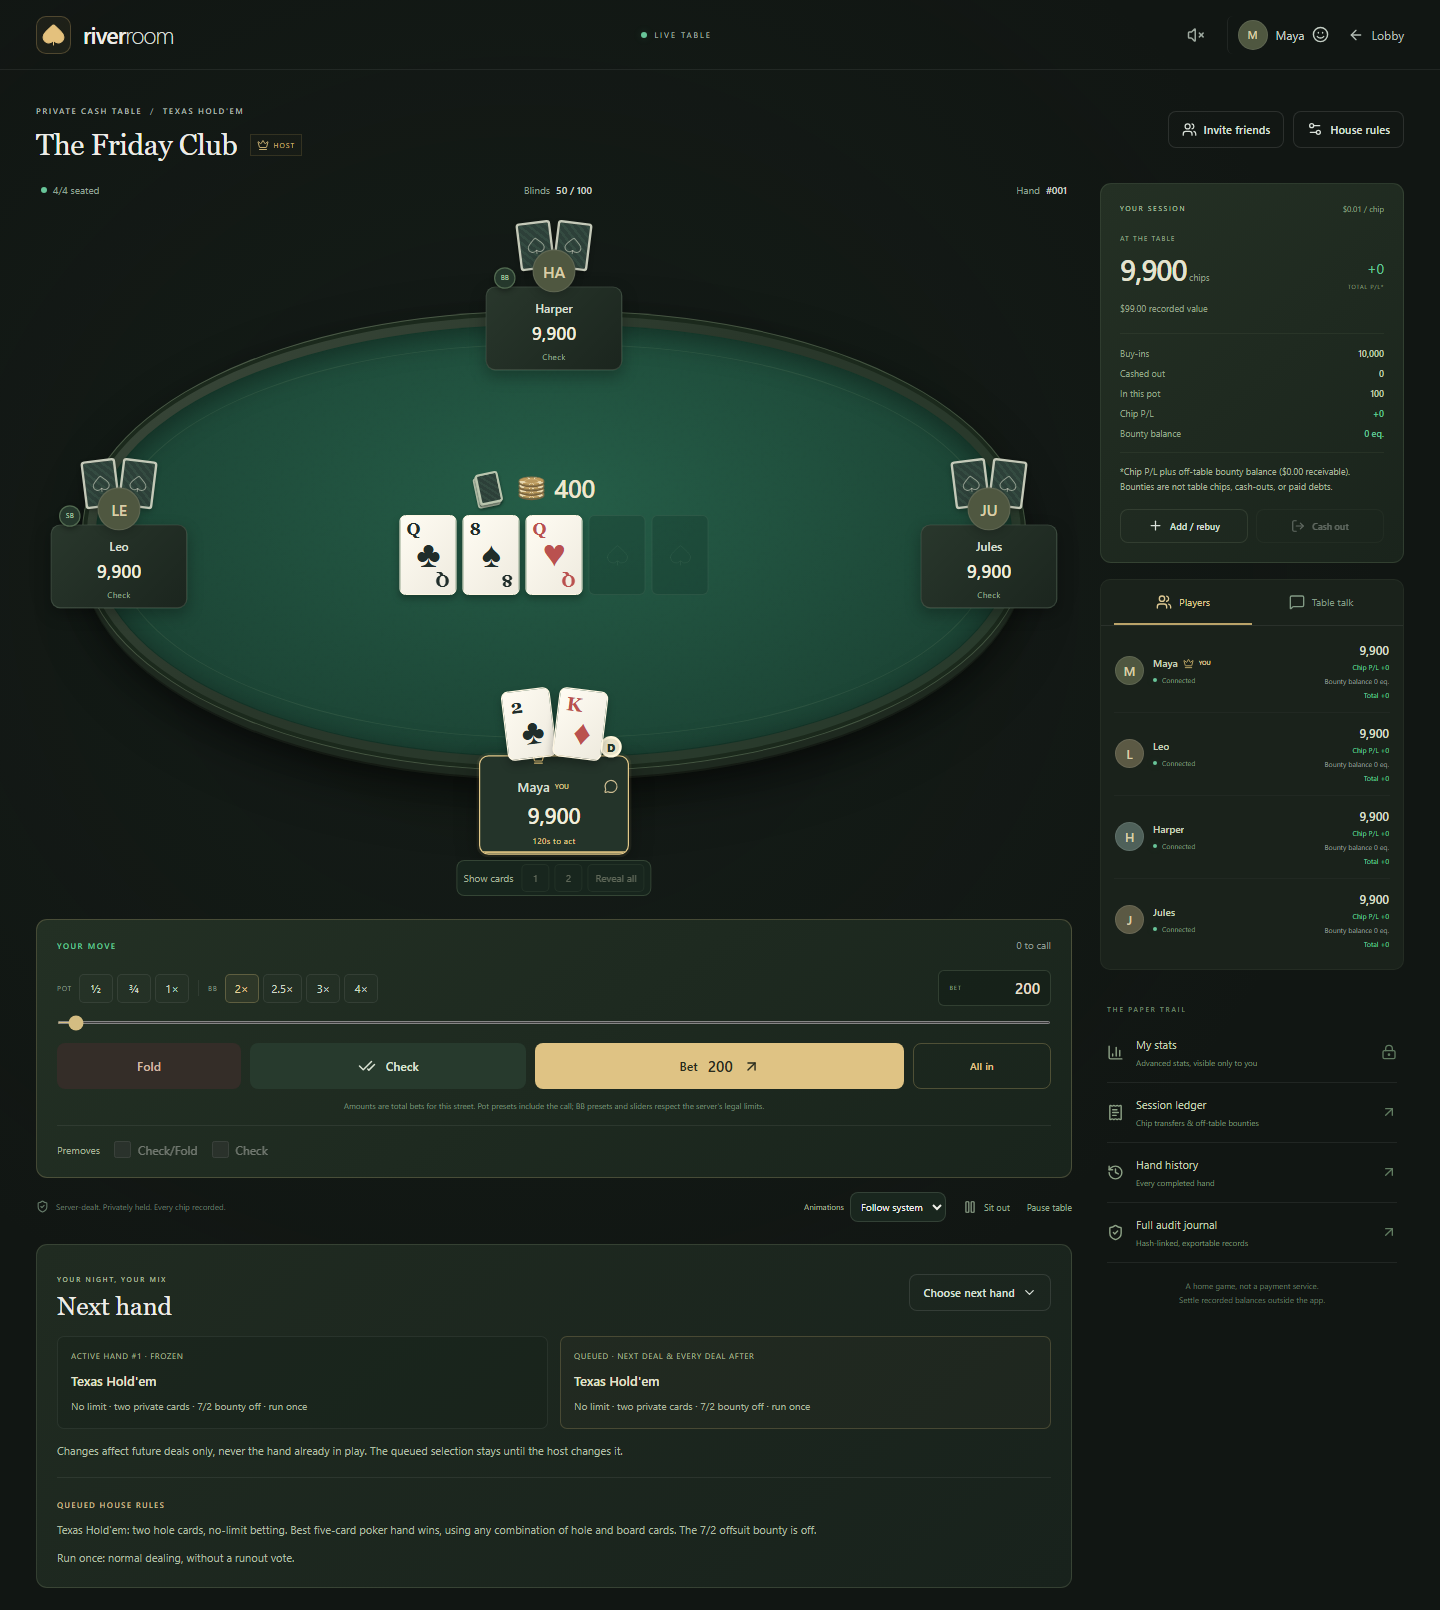
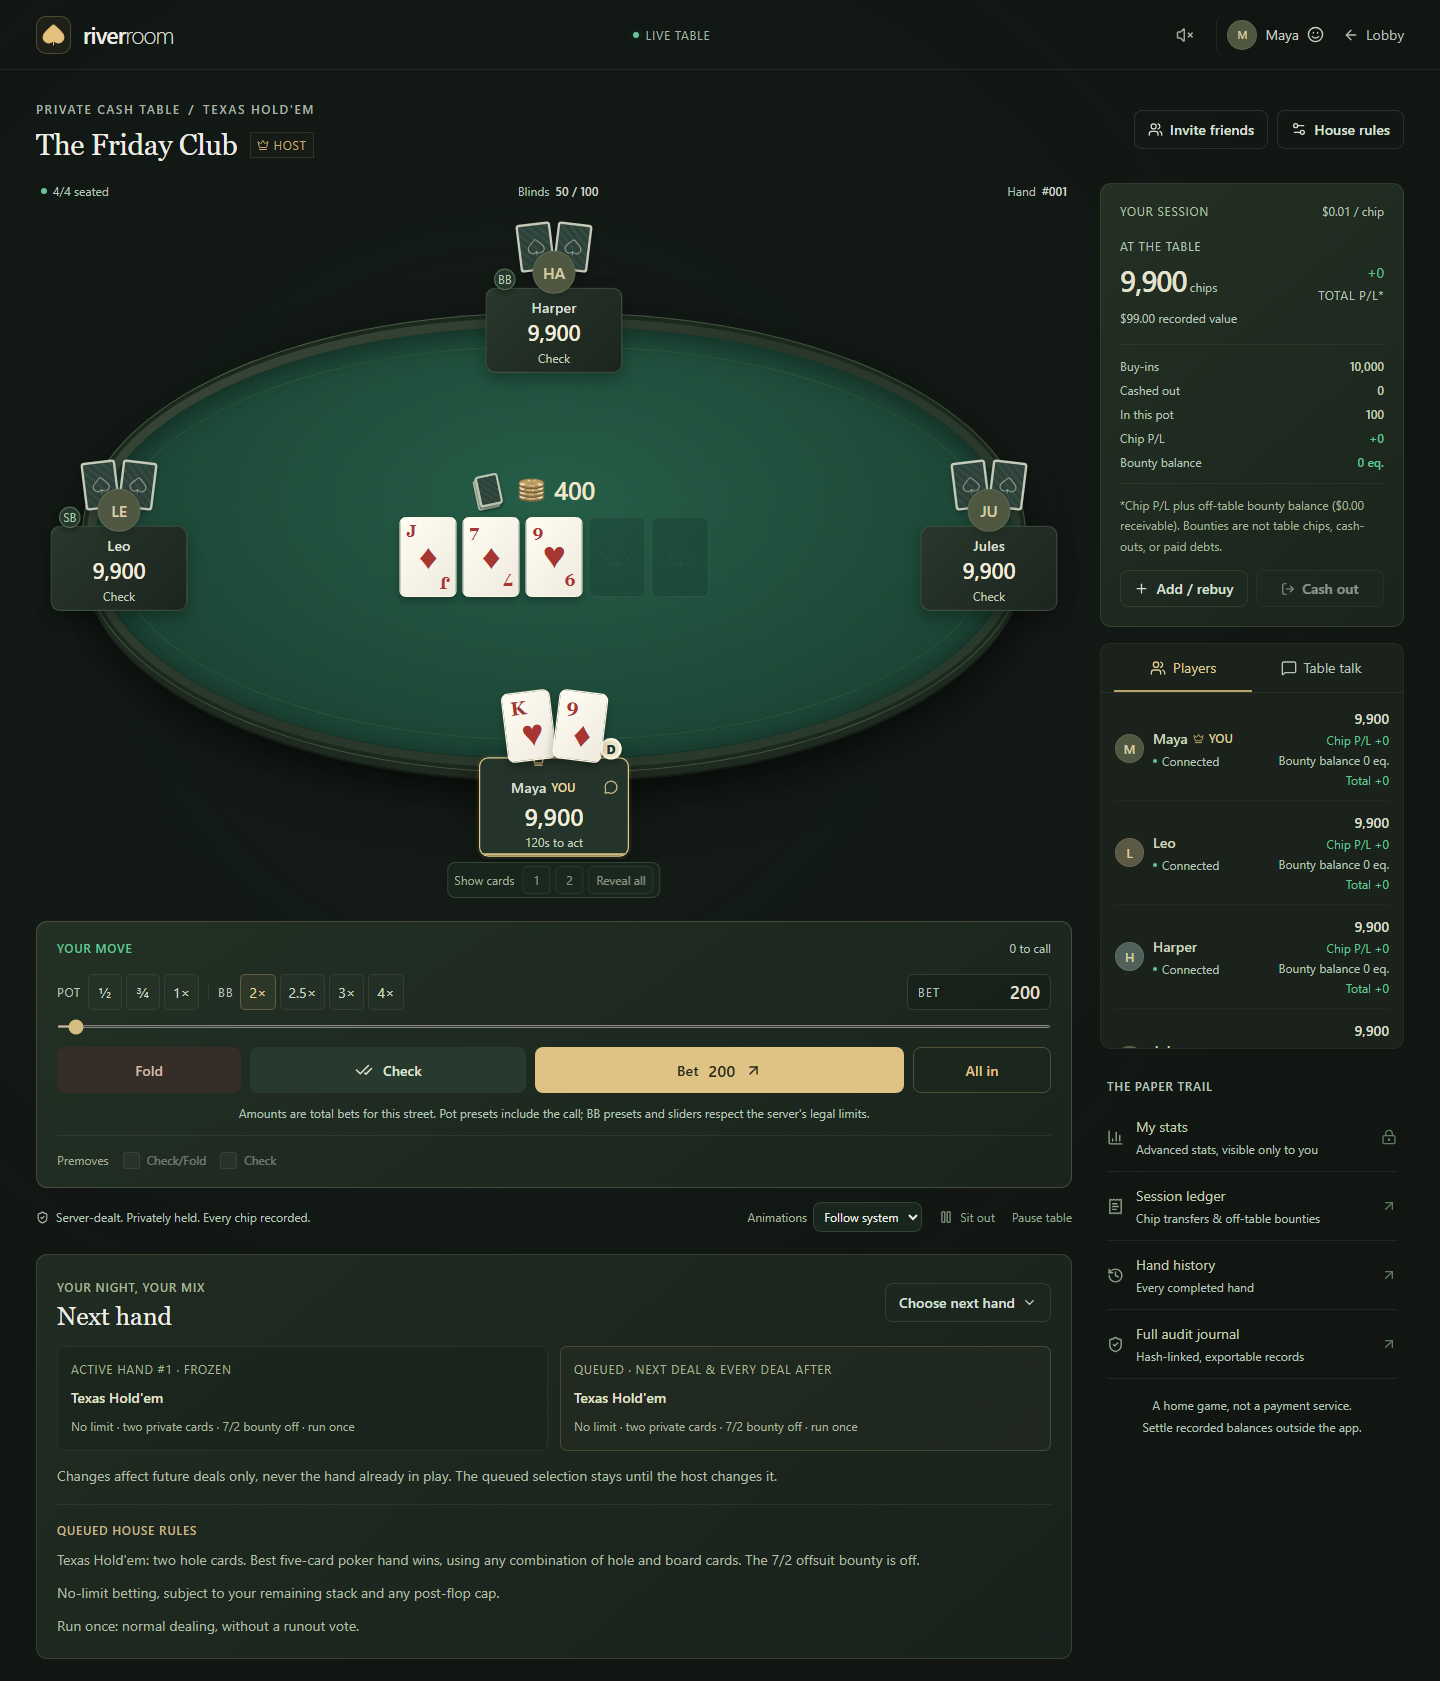
fix: improve interface legibility across screen sizes
Address #13 with shared readable typography roles, stronger secondary-text contrast, readable mobile inputs and betting controls, and responsive spacing that preserves table and premove stability.

diff --git a/src/client/readability.css b/src/client/readability.css
@@ -1,0 +1,145 @@
+/* Shared type roles override the compact component styles, including their mobile reductions. */
+:root {
+  --text-caption: .75rem;
+  --text-body: .875rem;
+  --text-control: 1rem;
+  --muted: #b5c3b9;
+}
+body { font-size: var(--text-control); }
+input::placeholder { color: #a6b7ab; }
+button:disabled, .profile-emoji-button[aria-disabled="true"] { opacity: .6; }
+
+.eyebrow, .brand small, .private-pill, .hero-copy .eyebrow,
+.hero-note, .feature-grid p, .section-heading > .muted, .session-title,
+.status-tag, .session-card p, .session-bottom small, .session-breakdown > span,
+.session-breakdown small, .lobby-footer, .modal-heading p, .stats-sample > span,
+.stat-card h3 small, .stat-sample, .stat-card p, .stats-notes p, .emoji-count,
+.emoji-group h3, .emoji-footer > span, .field > span, .field small, .form-note,
+.game-nav-center, .table-title-row .eyebrow, .host-label, .table-meta,
+.paused-overlay, .turn-heading, .action-heading > .muted, .preset-label,
+.raise-input span, .action-buttons small, .sizing-note, .premove-label,
+.reveal-label, .reveal-controls button, .table-footer, .table-footer .text-button,
+.bankroll-title, .bankroll-title > span:last-child, .bankroll-main > div > small,
+.bankroll-main > div > strong > span, .bankroll-main > div > .muted, .net-badge small,
+.bankroll-details, .player-details strong small, .player-details > span,
+.player-money small, .chat-event time, .session-tools > .eyebrow,
+.session-tools > button small, .sidebar-note, .count-badge, .approval-row small,
+.approvals .form-note, .funding-total > span, .funding-total small,
+.ledger-summary > div > span, .ledger-summary small, .ledger-summary strong small,
+.data-table th, .data-table td small, .record-footer > span,
+.hand-history header > span, .history-pot small, .showdown-row small,
+.audit-list time, .audit-list code, .board-label, .table-double-board .board-label, .balance-note,
+.bounty-award small, .next-hand-panel .eyebrow, .hand-rules-summary small,
+.hand-rules-summary span, .mixed-house-rules > strong, .runout-clock,
+.runout-players li small, .runout-players strong, .runout-decision .runout-deck-note,
+.hand-history article > header small, .history-rules, .history-result small,
+.history-balances p, .emote-menu-heading, .emote-menu-note, .emote-menu-error,
+.moving-chip-amount, .moving-chip-amount small, .motion-preference,
+.motion-preference select {
+  font-size: var(--text-caption);
+}
+
+.button, .button-small, .hero-actions .button, .text-button, .profile-chip,
+.emoji-categories button, .checkbox, .empty-state, .error-banner, .info-banner,
+.connection-banner, .toast, .preset-button, .action-buttons .button,
+.between-actions .button, .bankroll-actions .button, .panel-tabs button,
+.player-details strong, .player-money strong, .chat-event, .chat-message p,
+.session-tools > button > span, .approvals h3, .approval-row strong,
+.record-tools .button, .data-table, .hand-history article > header,
+.history-board .muted, .history-result, .showdown-row, .audit-list header,
+.audit-list p, .variant-guidance, .bounty-award strong, .bounty-award p,
+.hand-rules-summary strong, .hand-attributes legend, .next-hand-explainer,
+.mixed-house-rules p, .run-tabs button, .table-double-board .run-tabs button, .runout-decision > p,
+.runout-players li > span, .runout-choices .button, .record-bounty-note,
+.empty-board, .history-balances summary, .history-balances > div,
+.emote-mute-choice, .next-hand-panel header .button, .record-footer .button {
+  font-size: var(--text-body);
+}
+.field input, .field select, .emoji-search input, .chat-form input { font-size: var(--text-control); }
+.field input, .field select { height: auto; min-height: 46px; }
+.action-buttons .button-allin { font-size: var(--text-body) !important; }
+.action-buttons strong { font-size: var(--text-control); }
+.eyebrow, .brand small, .private-pill, .game-nav-center, .host-label,
+.turn-heading, .bankroll-title, .bankroll-main > div > small,
+.net-badge small, .session-tools > .eyebrow, .next-hand-panel .eyebrow,
+.mixed-house-rules > strong { letter-spacing: .06em; }
+
+.hero-note, .feature-grid p, .hero-copy > p, .lobby-footer, .modal-heading p,
+.field small, .form-note, .table-meta, .preset-label, .raise-input span,
+.sizing-note, .table-footer, .bankroll-title > span:last-child,
+.bankroll-main > div > small, .bankroll-main > div > strong > span,
+.bankroll-main > div > .muted, .net-badge small, .bankroll-details,
+.panel-tabs button:not(.tab-active), .player-details > span, .chat-event,
+.chat-event time, .session-tools > .eyebrow, .session-tools > button small,
+.sidebar-note, .funding-total small, .ledger-summary small, .data-table td small,
+.transfer-cell > span, .hand-history header > span, .history-pot small,
+.showdown-row small, .audit-list time, .audit-list code { color: var(--muted); }
+.hero-copy > p { font-size: var(--text-control); }
+.red-suit { color: #a73532; }
+.feature-grid h3 { font-size: var(--text-control); }
+.feature-grid p { font-size: var(--text-body); }
+.session-breakdown > span, .session-breakdown small { color: var(--muted); }
+.bet-sizing, .presets, .table-meta { flex-wrap: wrap; }
+.bet-sizing { gap: 14px; }
+.presets { row-gap: 8px; }
+.preset-button { min-height: 36px; height: auto; }
+.raise-input input { width: 90px; font-size: 1.125rem; }
+.action-heading { flex-wrap: wrap; }
+.action-heading > .muted { max-width: none; }
+.bankroll-title { flex-wrap: wrap; gap: 8px; }
+.bankroll-details > span { gap: 12px; }
+.table-footer > div { flex-wrap: wrap; }
+.motion-preference select { max-width: none; }
+
+.seat-name, .hero-seat .seat-name { font-size: .75rem; line-height: 1.2; }
+.seat-name small, .seat-action, .seat-bet, .seat .seat-bet,
+.position-badge, .dealer-badge, .blind-badge, .empty-seat small {
+  font-size: .625rem;
+  line-height: 1.2;
+}
+.seat-action { height: 12px; color: #c2d3bc; letter-spacing: 0; }
+.seat-name small { color: #f0daa1; }
+.seat-stack { font-size: 1.125rem; line-height: 1.2; }
+.hero-seat .seat-stack { font-size: 1.25rem; }
+.seat-panel { padding-top: 8px; padding-bottom: 5px; }
+.hero-seat .seat-panel { padding-top: 16px; }
+.seat-folded:not(.seat-showing) { opacity: .8; }
+.empty-seat { color: #b9cdb7; }
+.empty-seat small { letter-spacing: 0; }
+.reveal-controls { height: auto; min-height: 36px; flex-wrap: wrap; justify-content: center; }
+.reveal-controls button { height: auto; min-height: 28px; }
+.emote-menu-note, .emote-menu-error { line-height: 1.6; }
+
+@media (max-width: 700px) {
+  .brand small { display: none; }
+}
+@media (min-width: 601px) and (max-width: 1200px) {
+  .table-stage.table-double-board { min-height: 560px; max-height: none; }
+  .table-stage.table-double-board.table-crowded { min-height: 720px; }
+}
+@media (max-width: 600px) {
+  .game-main { padding-top: 8px; }
+  .table-title-row { margin-bottom: 10px; }
+  .table-title-row h1 { margin-top: 6px; }
+  .table-stage, .table-stage.table-crowded { margin-top: 8px; }
+  .table-title-actions .button { font-size: 0; }
+  .table-meta { gap: 8px 12px; justify-content: flex-start; }
+  .seat-name, .hero-seat .seat-name { font-size: .625rem; }
+  .seat-stack { font-size: .9375rem; }
+  .hero-seat .seat-stack { font-size: 1.125rem; }
+  .seat-panel { padding-top: 6px; padding-bottom: 4px; }
+  .hero-seat .seat-panel { padding-top: 14px; }
+  .presets { justify-content: flex-start; gap: 3px; }
+  .preset-button { min-width: 32px; padding-inline: 4px; }
+  .action-buttons { grid-template-columns: repeat(2, minmax(0, 1fr)); gap: 8px; }
+  .action-buttons .button { min-height: 48px; }
+  .action-buttons strong { font-size: 1.125rem; }
+  .action-console { padding-top: 12px; }
+  .action-heading { display: grid; grid-template-columns: minmax(0, 1fr); gap: 4px; }
+  .action-heading .turn-heading { overflow: hidden; text-overflow: ellipsis; white-space: nowrap; }
+  .action-heading > .muted { text-align: left; }
+  .next-hand-panel > header { align-items: flex-start; flex-wrap: wrap; }
+  .hand-history article > header, .record-footer { flex-wrap: wrap; }
+  .record-footer > span { max-width: 100%; }
+  .emote-menu-heading, .emote-menu-note, .emote-menu-error { font-size: var(--text-caption); }
+}

diff --git a/tests/browser/poker.spec.ts b/tests/browser/poker.spec.ts
@@ -765,6 +765,65 @@ test('emoji interactions avoid recurring formatting work and delayed hover feedb
   await expect(trigger).toBeFocused();
 });
 
+test('essential text stays readable and high contrast on desktop and phone', async ({ page }, testInfo) => {
+  const room = await createTable(page, 'Readable poker', 4);
+  for (let index = 0; index < 3; index++) await serverCommand(page, room.id, { type: 'add_bot' });
+  await page.getByRole('button', { name: 'Deal first hand', exact: true }).click();
+  await serverCommand(page, room.id, { type: 'pause', value: true });
+  const contrast = (foreground: string, background: string) => {
+    const rgb = (color: string) => color.match(/[\d.]+/g)!.slice(0, 3).map(Number);
+    const luminance = (color: number[]) => color.map(value => {
+      const channel = value / 255;
+      return channel <= .04045 ? channel / 12.92 : ((channel + .055) / 1.055) ** 2.4;
+    }).reduce((sum, value, index) => sum + value * [0.2126, 0.7152, 0.0722][index]!, 0);
+    const values = [luminance(rgb(foreground)), luminance(rgb(background))].sort((a, b) => a - b);
+    return (values[1]! + .05) / (values[0]! + .05);
+  };
+  const samples: Array<[string, number, string]> = [
+    ['.table-meta', 12, 'rgb(17, 22, 19)'],
+    ['.turn-heading', 12, 'rgb(35, 48, 36)'],
+    ['.preset-label', 12, 'rgb(35, 48, 36)'],
+    ['.preset-button', 14, 'rgb(35, 48, 36)'],
+    ['.sizing-note', 12, 'rgb(35, 48, 36)'],
+    ['.bankroll-details', 12, 'rgb(36, 48, 36)'],
+    ['.player-details > span', 12, 'rgb(26, 34, 27)'],
+    ['.session-tools > button small', 12, 'rgb(17, 22, 19)'],
+    ['.hand-rules-summary span', 12, 'rgb(32, 43, 33)'],
+    ['.mixed-house-rules p', 14, 'rgb(32, 43, 33)'],
+  ];
+  for (const width of [1440, 390, 320]) {
+    await page.setViewportSize({ width, height: 1000 });
+    for (const [selector, minimum, background] of samples) {
+      const metrics = await page.locator(selector).evaluateAll(elements => elements.map(element => {
+        const style = getComputedStyle(element);
+        return { font: parseFloat(style.fontSize), color: style.color, text: element.textContent };
+      }));
+      expect(metrics.length, selector).toBeGreaterThan(0);
+      for (const metric of metrics) {
+        expect(metric.font, `${selector} at ${width}px`).toBeGreaterThanOrEqual(minimum);
+        expect(contrast(metric.color, background), `${selector} contrast at ${width}px`).toBeGreaterThanOrEqual(4.5);
+      }
+    }
+    const seatText = await page.locator('.seat-name, .seat-action, .position-badge, .seat-bet').evaluateAll(elements =>
+      elements.map(element => parseFloat(getComputedStyle(element).fontSize) * new DOMMatrix(getComputedStyle(element.closest('.seat')!).transform).a));
+    expect(seatText.every(size => size >= 12)).toBe(true);
+    expect(await page.evaluate(() => document.documentElement.scrollWidth <= innerWidth + 1)).toBe(true);
+    await page.getByRole('button', { name: 'House rules', exact: true }).click();
+    const dialog = page.getByRole('dialog');
+    const inputs = await dialog.locator('input:not([type="checkbox"]), select').evaluateAll(elements => elements.map(element => parseFloat(getComputedStyle(element).fontSize)));
+    expect(inputs.length).toBeGreaterThan(0);
+    expect(inputs.every(size => size >= 16)).toBe(true);
+    await page.getByRole('button', { name: 'Close dialog', exact: true }).click();
+    await page.screenshot({ path: testInfo.outputPath(`readability-${width}.png`), fullPage: true, animations: 'disabled' });
+  }
+  await page.goto('/');
+  await expect(page.locator('.feature-grid')).toBeVisible();
+  expect(await page.locator('.feature-grid p').evaluateAll(elements => elements.every(element => parseFloat(getComputedStyle(element).fontSize) >= 14))).toBe(true);
+  await page.getByRole('button', { name: 'My stats', exact: true }).click();
+  await expect(page.getByRole('dialog')).toBeVisible();
+  expect(await page.locator('.stats-notes p, .stat-card p').evaluateAll(elements => elements.every(element => parseFloat(getComputedStyle(element).fontSize) >= 12))).toBe(true);
+});
+
 test('desktop and phone layouts expose real controls without horizontal overflow', async ({ page, browser }) => {
   const folder = resolve('preview');
   await mkdir(folder, { recursive: true });

diff --git a/src/client/Table.tsx b/src/client/Table.tsx
@@ -44,10 +44,10 @@ export const PokerTable = memo(function PokerTable({ room, timeOffset, onChooseE
   const upperRows = Math.max(1, Math.ceil(compactPairs / 2));
   const lowerRows = Math.floor(compactPairs / 2);
   // Narrow tables reserve a clear middle band for boards, with opponent rows above and below.
-  const compactCommunity = upperRows * 130 + (doubleBoard ? 100 : 65);
-  const lowerStart = compactCommunity + (doubleBoard ? 160 : 120);
-  const compactHero = lowerRows ? lowerStart + (lowerRows - 1) * 130 + 140
-    : compactCommunity + (doubleBoard ? 160 : 140);
+  const compactCommunity = upperRows * 130 + (doubleBoard ? 110 : 55);
+  const lowerStart = compactCommunity + (doubleBoard ? 180 : 120);
+  const compactHero = lowerRows ? lowerStart + (lowerRows - 1) * 130 + 160
+    : compactCommunity + (doubleBoard ? 180 : 140);
   const seats = Array.from({ length: room.settings.maxSeats }, (_, seat) => {
     const relative = (seat - (hero.seat ?? 0) + room.settings.maxSeats) % room.settings.maxSeats;
     const angle = Math.PI / 2 + relative * Math.PI * 2 / room.settings.maxSeats;

diff --git a/src/client/main.tsx b/src/client/main.tsx
@@ -2,6 +2,7 @@ import React from 'react';
 import { createRoot } from 'react-dom/client';
 import { App } from './App';
 import './styles.css';
+import './readability.css';
 
 class ErrorBoundary extends React.Component<React.PropsWithChildren, { failed: boolean }> {
   state = { failed: false };

diff --git a/README.md b/README.md
@@ -273,6 +273,10 @@ them outside the app. Bot-related amounts remain virtual.
 
 ### Included
 
+- Readable interface typography: at least 14px body text and controls, 12px supporting
+  labels, and 16px form inputs without shrinking them on phones. Seat labels
+  retain at least 12px rendered text. Brighter secondary text and darker red
+  card ink improve contrast; phone betting actions use a two-column layout.
 - Two to nine seats, live presence, reconnect, invite links, table chat.
 - Live table animations: cards travel from the deck to each seat in deal order;
   new community cards are dealt and newly public hole cards turn face up.
